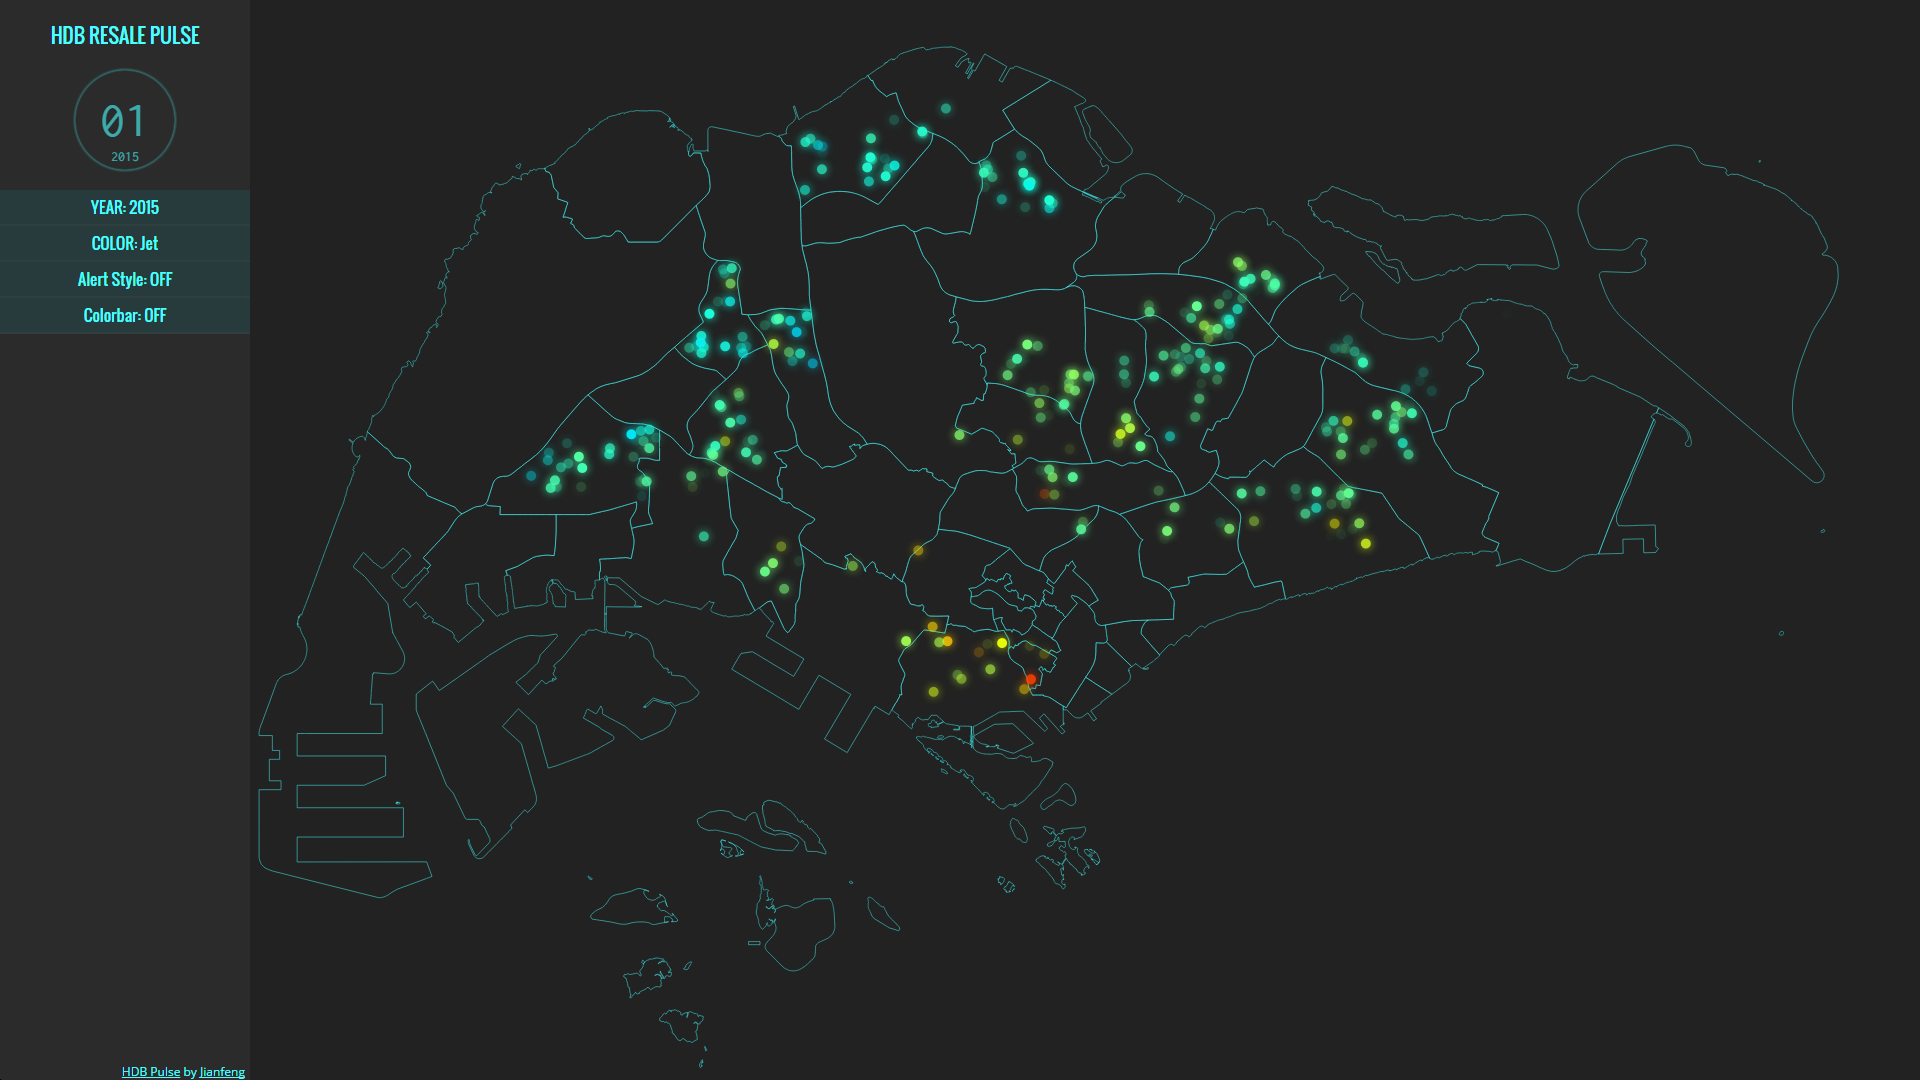
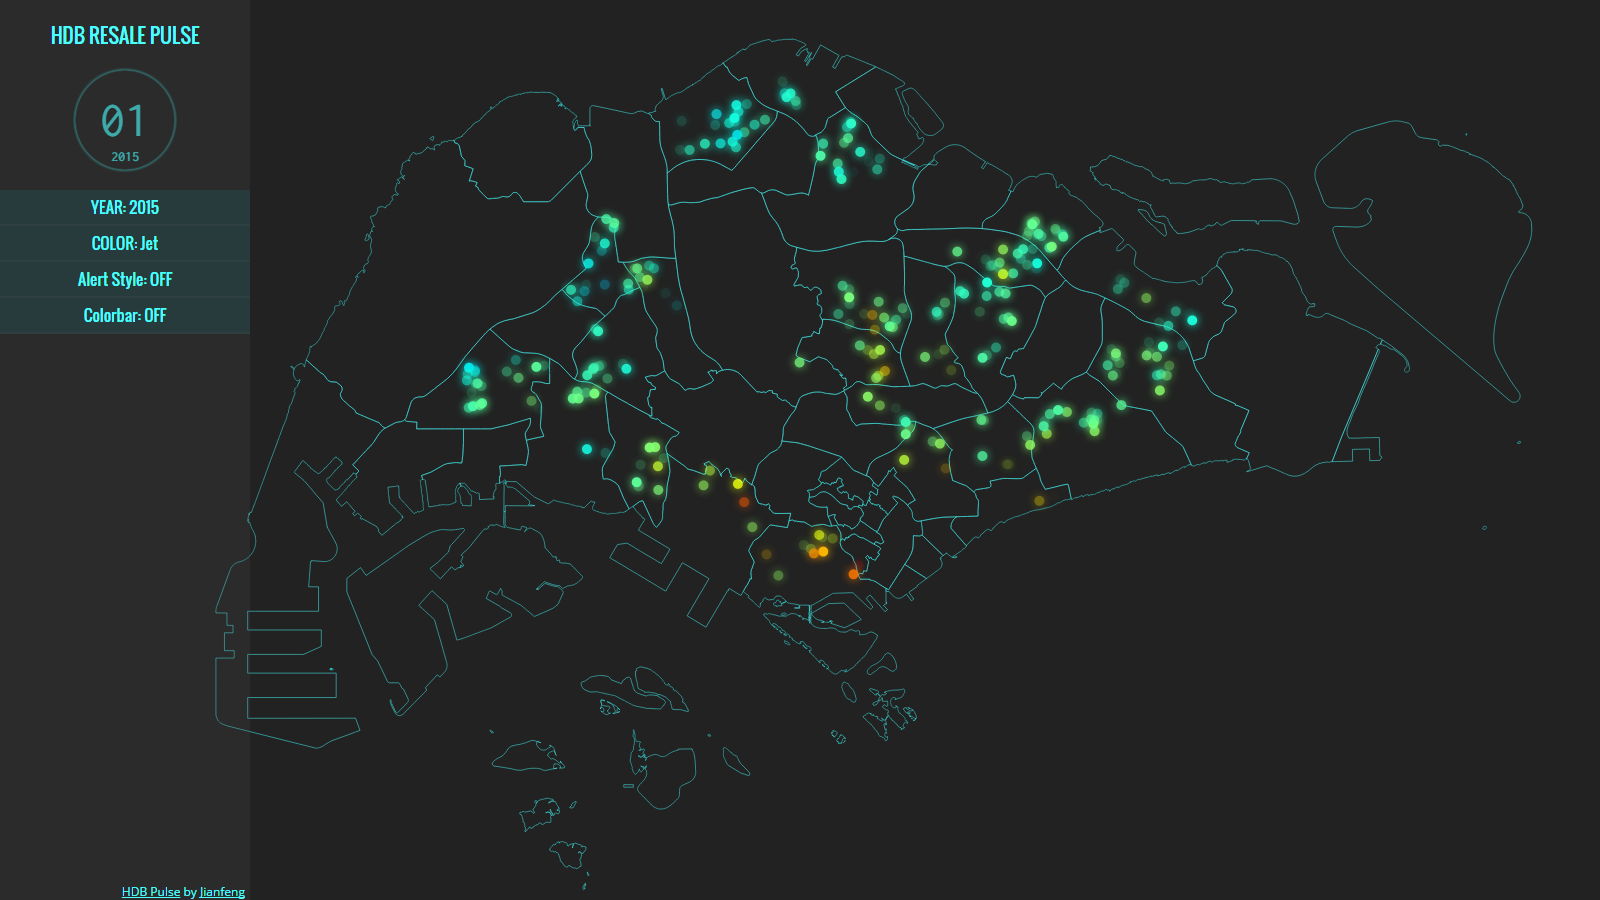
Add animation and fix typo

diff --git a/README.md b/README.md
@@ -2,35 +2,38 @@
 
 HDB Pulse shows the animation of Singapore HDB flat resale price pulse in
 recent years. Each resale record is represented by a solid circle, whose color
-is determined by its recorded price (SGD / sqm), on map.
+is determined by its recorded price (SGD/sqm), on Singapore map.
 
 ![Screenshot][1]
+![Animation][2]
 
 ## About
 * Q: Where did you get all the data?
 
   A: All HDB flat resale records from 2000 to Sep 2015 are available from
-  [Data.gov.sg][1]. The longitude and latitude for each record used of plotting
-  is retrieved by querying through [Google Geocoding API][2] using its BLK
-  number and stress address.
+  [Data.gov.sg][3]. The longitude and latitude for each record used of plotting
+  is retrieved by querying through [Google Geocoding API][4] using address of each
+  record.
 
 * Q: What do the data mean?
 
-  A: Each resale is represented by a solid circle plotted at the location of its
-  BLK. The color for each circle is determined by its price (SGD/sqm). The
-  resale records are shown by the sequence of month. During each month, the
-  records are shown randomly since the original data don't have any sequence
-  in each month.
+  A: The resale records are shown in the sequence of approval / registration date.
+  Each resale is represented by a solid circle plotted at its address.
+  The color for each circle is determined by its price (SGD/sqm). You can turn
+  on colorbar on the left panel to have an impression on the color-price relationship.
+  During each month, the records are shown randomly since the original data
+  don't have any sequence in each month.
 
 * Q: Why is the demo so lagging?
 
   A: There are around 25k resale records in each year, which means more than 2000 resale
   records in each month. Each record lasts for 1.5s on map and the total duration
   for each month is 6s. That means that there are always more than 500 circles
-  on map. You'll need to have a powerful CPU to have a high FPS when playing
+  on map. You'll need to have a powerful CPU to have a high FPS while playing
   the animation.
 
 
 [1]: images/screenshot.png
-[2]: https://data.gov.sg/dataset/resale-flat-prices
-[3]: https://developers.google.com/maps/documentation/geocoding/intro
+[2]: images/animation.gif
+[3]: https://data.gov.sg/dataset/resale-flat-prices
+[4]: https://developers.google.com/maps/documentation/geocoding/intro
